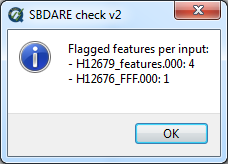
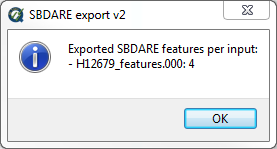
update qc tools after sbdare export

diff --git a/hyo_qctools/latest/searchindex.js b/hyo_qctools/latest/searchindex.js
@@ -1,1 +1,1 @@
-Search.setIndex({envversion:49,filenames:["credits","developer_guide","developer_guide_how_to_build_docs","developer_guide_how_to_contribute","developer_guide_how_to_distribute","developer_guide_todolist","in_brief","index","license","user_manual","user_manual_chart","user_manual_chart_0_overview","user_manual_chart_1_data_inputs","user_manual_chart_2_bag_truncate","user_manual_supported_formats","user_manual_survey","user_manual_survey_0_overview","user_manual_survey_1_data_inputs","user_manual_survey_2_detect_fliers","user_manual_survey_3_scan_features","user_manual_survey_4_valsou_checks","user_manual_survey_5_sbdare_checks"],objects:{},objnames:{},objtypes:{},terms:{"4d0":8,"4d1":8,"break":3,"case":3,"class":8,"export":[16,21],"function":[8,12,17],"new":[4,8],"public":8,"while":6,abov:[3,4],absolut:3,accept:[8,12,17],access:[12,17],accessor:8,accompani:8,account:[16,20],accuraci:6,add:3,addit:[8,17,18],addition:8,address:8,adher:3,after:[13,18,19,20,21],aka:5,alert:6,algorithm:18,all:[6,12,17,20],allow:[4,8],alphabet:3,alreadi:8,also:[6,8,12,17],alwai:3,among:8,ani:[3,8,12,17],anomal:[16,18],anywai:3,anywher:[12,17],api:2,apidoc:2,appli:8,applic:8,applicat:8,archiv:[16,21],aren:3,argument:8,assist:6,associat:8,attent:6,attribut:[5,11,14,16,19],author:8,authors:3,autobuild:2,automat:[12,13,17,18,19,20,21],avail:[12,14,17],backward:3,bag:[9,10,11,12],base:[0,8],bathymetr:[6,11,12,14,16,17],bathymetri:[16,20],been:18,below:8,best:3,between:[0,20],blooper:3,both:8,bottom:[12,13,16,17,18,19,20,21],bound:8,brian:0,brows:[12,17],bug:0,build:1,built:2,bump:4,bumpvers:4,button:[12,17],calder:0,call:8,can:[2,3,4,8],candid:5,cari:14,ccom:0,center:[0,8],certain:8,chang:[3,8],changelog:3,check:[9,15,16,17],choic:8,choos:8,clear:[12,17],click:[12,13,17,19,20,21],close:3,coastal:[0,8],code:[3,8],collaps:3,combin:[8,20],come:11,comment:0,commit:3,commun:8,compat:[3,8],compil:13,comput:[8,13,18,19,20,21],concern:[3,8],condit:8,conduct:3,conf:4,consid:[3,8,20],contact:0,contain:8,contribut:1,contributor:3,convei:8,copi:8,copyright:8,correspond:8,cover:8,creat:2,csar:14,current:14,data:[6,9,10,11],debug:8,decid:8,decimetr:[11,13],deem:8,defin:8,definit:8,deprec:18,detail:8,detect:[9,15,16,17],dev0:4,develop:0,differ:[3,8],direct:8,directori:[12,17],dirti:4,displai:8,distinguish:8,distribut:1,doc:[2,3,4],document:1,doe:[3,8],don:3,drag:[12,17,18,19,20],drop:[12,17,18,19,20],dual:8,dure:8,each:[2,8],edu:0,effect:8,effort:8,either:[8,19],elev:[11,13],engin:8,ensu:[12,17],ensur:[5,8,11,16,19],ensure:[16,20],enter:18,entri:3,evaluat:[5,11],even:3,event:8,ever:[3,8],everi:3,everyon:8,exception:8,exclud:8,execut:[8,12,17,18],exist:3,expect:18,explain:8,extent:8,facil:8,faith:8,fashion:3,faster:18,fear:3,featur:[0,3,5,6,9,11,15,16,17],feel:[0,3],few:3,fewer:8,field:19,file:[3,6,8,16,17,20,21],filenam:[12,17],find:[5,8,18],fix:3,flier:[5,9,15,16,17],folder:[4,12,17],follow:[2,8],form:8,format:9,found:20,foundat:[3,8],free:[0,3,8],from:[3,8,18,19,20],fsf:8,futur:8,general:8,get:3,gis:6,giusepp:0,give:8,given:8,gnu:8,good:[3,8],govern:8,gpl:8,grammar:3,great:3,grid:[6,11,12,13,14,16,17,18,20],hampshir:8,hard:3,have:[2,3,8],hcell:[5,11],header:8,height:18,help:3,here:3,herein:8,hint:3,how:1,howev:[12,17],html:2,http:8,hydroffic:[0,2,8],idealli:3,improv:6,improve:5,inc:8,includ:8,incorpor:8,index:7,industrial:8,info:8,inform:[8,17],informat:8,ingest:[11,12,16,17],inlin:8,input:[6,9,10,11],instal:[2,4,8],installat:8,interfac:[8,12,13,17,18,19,20,21],invok:8,isol:8,joint:0,june:8,just:[2,3],knob:19,later:8,layer:6,layout:8,length:8,lesser:8,lgpl:8,librari:8,licens:[],license:8,like:4,limit:8,line:8,link:8,list:8,live:3,load:[12,20],locat:17,macro:8,made:8,mai:[8,12,17,18],make:[2,3,8],mani:3,manner:8,manual:[],map:[0,8],masetti:0,match:4,materi:8,matthew:0,mean:8,meaning:8,mechan:8,merg:3,messag:[3,17],meter:18,might:6,minim:8,miss:3,mkdir:2,mode:8,modif:8,modifi:8,mold:3,more:[6,8],must:8,necessari:8,need:[4,8,12,17],neeed:2,noaa:[0,14],none:8,note:[17,18,20],noteworthi:3,noth:3,notic:8,now:[12,17],number:[8,12,17],numer:8,obei:3,object:[6,8],occur:6,ocean:[0,8],office:19,onc:2,once:4,ongo:0,onli:[8,12,14,18],onto:[12,17],open:[3,12,13,17,18,19,20,21],oper:[8,18],optim:18,option:8,org:8,other:8,otherwis:8,out:3,output:[6,12,13,17,18,19,20,21],overal:6,overlap:20,overview:[9,10],packag:8,page:7,paramet:[8,18,19],part:[6,8],particip:3,particular:8,pass:8,patch:[3,4],pep:3,perform:8,perman:8,permiss:8,permit:8,ping:6,pip:[2,4],place:8,pleas:3,pleasant:3,polit:3,popul:[12,17],portion:8,possibl:3,precis:[11,13],present:[4,8],problem:8,process:[6,18,19,20],produc:8,profil:19,program:8,project:[2,3],promin:8,proper:[5,11,16,19,21],properli:[8,16,20],provid:8,proxi:8,publish:8,pull:3,purpos:8,python:3,qctool:[0,2,8],question:3,quickstart:2,reach:3,read:14,readi:13,receiv:8,recombin:8,reduc:6,refer:8,reject:17,releas:[4,8],relink:8,remain:8,remov:[12,17],report:20,reproduc:8,request:[0,3],respect:17,restrict:[8,14],result:[18,19,20,21],revers:8,revis:8,robust:5,rule:[3,5,11],run:[4,8],sacrific:3,same:[8,18],sampl:[16,21],sbdare:[9,15,16,17],scale:[5,11],scan:[5,9,11,15,16,17,18],script:2,search:7,section:8,see:[3,11,16],select:[12,13,17,18,19,20,21],shall:[3,8],share:8,should:4,shown:[18,19,20,21],side:8,similar:8,singl:8,small:[3,8],softwar:[3,8,18,19,20],someth:[3,4],soon:11,sound:[5,11],sourc:[3,8],specifi:8,sphinx:2,spirit:8,start:3,statement:8,still:8,structur:8,subclass:8,submit:3,suggest:0,suitabl:8,summari:20,supplement:8,suppli:8,support:9,sure:3,survei:0,system:8,tab:[11,12,13,16,17,18,19,20,21],taken:8,ten:8,term:8,test:[3,18],text:[16,21],than:8,thank:3,thi:[3,8,12,17],throughout:6,todolist:1,togeth:8,too:3,tool:[0,6],top:12,triangl:[5,11],truncat:[9,10,11,12],turn:19,txt:3,type:[6,17],typo:3,unaccept:17,uncombin:8,under:[4,8],unh:0,univers:8,updat:2,upon:[12,17],use:8,user:6,util:8,valsou:[9,15,16,17],valu:4,valuabl:3,variabl:4,variou:6,verbatim:8,versu:[5,11],via:[5,11],visit:8,well:8,whatev:8,when:8,where:8,whether:[3,8],which:8,wilson:0,window:[13,18,19,20,21],without:8,won:3,work:8,worst:3,would:8,write:[3,14],www:8,you:[2,3,4,8],your:[3,8],yourself:3},titles:["Credits","Developer&#8217;s guide","How to build the documentation","How to contribute","How to distribute","Todolist","In brief","QC Tools&#8217;s documentation","License","User manual","Chart Review","Overview","Data inputs","BAG truncate","Supported Formats","Survey Review","Overview","Data inputs","Detect fliers","Scan features","VALSOU checks","SBDARE checks"],titleterms:{bag:13,brief:6,build:2,chart:[5,10],check:[20,21],content:[1,7,9],contribut:3,creation:2,credit:0,data:[12,17],detect:18,develop:1,distribut:4,document:[2,7],featur:19,first:2,flier:18,format:14,gener:2,guid:1,how:[2,3,4],indice:7,input:[12,17],licens:8,manual:9,overview:[11,16],requir:[2,4],review:[5,10,15],sbdare:21,scan:19,support:14,survei:[5,15],tabl:7,templat:2,time:2,todolist:5,tool:7,truncat:13,update:4,user:9,valsou:20,version:4}})
+Search.setIndex({envversion:49,filenames:["credits","developer_guide","developer_guide_how_to_build_docs","developer_guide_how_to_contribute","developer_guide_how_to_distribute","developer_guide_todolist","in_brief","index","license","user_manual","user_manual_chart","user_manual_chart_0_overview","user_manual_chart_1_data_inputs","user_manual_chart_2_bag_truncate","user_manual_supported_formats","user_manual_survey","user_manual_survey_0_overview","user_manual_survey_1_data_inputs","user_manual_survey_2_detect_fliers","user_manual_survey_3_scan_features","user_manual_survey_4_valsou_checks","user_manual_survey_5_sbdare_export"],objects:{},objnames:{},objtypes:{},terms:{"4d0":8,"4d1":8,"break":3,"case":3,"class":8,"export":[9,16],"function":[8,12,17],"new":[4,8],"public":8,"while":6,abov:[3,4],absolut:3,accept:[8,12,17],access:[12,17],accessor:8,accompani:8,account:[16,20],accuraci:6,add:3,addit:[8,17,18],addition:8,address:8,adher:3,after:[13,18,19,20,21],aka:5,alert:6,algorithm:18,all:[6,12,17,20],allow:[4,8],alphabet:3,alreadi:8,also:[6,8,12,17],alwai:3,among:8,ani:[3,8,12,17],anomal:[16,18],anywai:3,anywher:[12,17],api:2,apidoc:2,appli:8,applic:8,applicat:8,archiv:[16,21],aren:3,argument:8,assist:6,associat:8,attent:6,attribut:[5,11,14,16,19],author:8,authors:3,autobuild:2,automat:[12,13,17,18,19,20,21],avail:[12,14,17],backward:3,bag:[10,11,12],base:[0,8],bathymetr:[6,11,12,14,16,17],bathymetri:[16,20],been:18,below:8,best:3,between:[0,20],blooper:3,both:8,bottom:[12,13,16,17,18,19,20,21],bound:8,brian:0,brows:[12,17],bug:0,build:1,built:2,bump:4,bumpvers:4,button:[12,17],calder:0,call:8,can:[2,3,4,8],candid:5,cari:14,ccom:0,center:[0,8],certain:8,chang:[3,8],changelog:3,check:[],choic:8,choos:8,clear:[12,17],click:[12,13,17,19,20,21],close:3,coastal:[0,8],code:[3,8],collaps:3,combin:[8,20],come:11,comment:0,commit:3,commun:8,compat:[3,8],compil:13,comput:[8,13,18,19,20,21],concern:[3,8],condit:8,conduct:3,conf:4,consid:[3,8,20],contact:0,contain:8,contribut:1,contributor:3,convei:8,copi:8,copyright:8,correspond:8,cover:8,creat:2,csar:14,current:14,data:[6,10,11],debug:8,decid:8,decimetr:[11,13],deem:8,defin:8,definit:8,deprec:18,detail:8,detect:[],dev0:4,develop:0,differ:[3,8],direct:8,directori:[12,17],dirti:4,displai:8,distinguish:8,distribut:1,doc:[2,3,4],document:1,doe:[3,8],don:3,drag:[12,17,18,19,20],drop:[12,17,18,19,20],dual:8,dure:8,each:[2,8],edu:0,effect:8,effort:8,either:[8,19],elev:[11,13],engin:8,ensu:[12,17],ensur:[5,8,11,16,19],ensure:[16,20],enter:18,entri:3,evaluat:[5,11],even:3,event:8,ever:[3,8],everi:3,everyon:8,exception:8,exclud:8,execut:[8,12,17,18],exist:3,expect:18,explain:8,extent:8,facil:8,faith:8,fashion:3,faster:18,fear:3,featur:[0,3,5,6,11],feel:[0,3],few:3,fewer:8,field:19,file:[3,6,8,16,17,20,21],filenam:[12,17],find:[5,8,18],fix:3,flier:5,folder:[4,12,17],follow:[2,8],form:8,format:[],found:20,foundat:[3,8],free:[0,3,8],from:[3,8,18,19,20],fsf:8,futur:8,general:8,get:3,gis:6,giusepp:0,give:8,given:8,gnu:8,good:[3,8],govern:8,gpl:8,grammar:3,great:3,grid:[6,11,12,13,14,16,17,18,20],hampshir:8,hard:3,have:[2,3,8],hcell:[5,11],header:8,height:18,help:3,here:3,herein:8,hint:3,how:1,howev:[12,17],html:2,http:8,hydroffic:[0,2,8],idealli:3,improv:6,improve:5,inc:8,includ:8,incorpor:8,index:7,industrial:8,info:8,inform:[8,17],informat:8,ingest:[11,12,16,17],inlin:8,input:[6,10,11],instal:[2,4,8],installat:8,interfac:[8,12,13,17,18,19,20,21],invok:8,isol:8,joint:0,june:8,just:[2,3],knob:19,later:8,layer:6,layout:8,length:8,lesser:8,lgpl:8,librari:8,licens:[],license:8,like:4,limit:8,line:8,link:8,list:8,live:3,load:[12,20],locat:17,macro:8,made:8,mai:[8,12,17,18],make:[2,3,8],mani:3,manner:8,manual:[],map:[0,8],masetti:0,match:4,materi:8,matthew:0,mean:8,meaning:8,mechan:8,merg:3,messag:[3,17],meter:18,might:6,minim:8,miss:3,mkdir:2,mode:8,modif:8,modifi:8,mold:3,more:[6,8],must:8,necessari:8,need:[4,8,12,17],neeed:2,noaa:[0,14],none:8,note:[17,18,20],noteworthi:3,noth:3,notic:8,now:[12,17],number:[8,12,17],numer:8,obei:3,object:[6,8],occur:6,ocean:[0,8],office:19,onc:2,once:4,ongo:0,onli:[8,12,14,18],onto:[12,17],open:[3,12,13,17,18,19,20,21],oper:[8,18],optim:18,option:8,org:8,other:8,otherwis:8,out:3,output:[6,12,13,17,18,19,20,21],overal:6,overlap:20,overview:10,packag:8,page:7,paramet:[8,18,19],part:[6,8],particip:3,particular:8,pass:8,patch:[3,4],pep:3,perform:8,perman:8,permiss:8,permit:8,ping:6,pip:[2,4],place:8,pleas:3,pleasant:3,polit:3,popul:[12,17],portion:8,possibl:3,precis:[11,13],present:[4,8],problem:8,process:[6,18,19,20],produc:8,profil:19,program:8,project:[2,3],promin:8,proper:[5,11,16,19,21],properli:[8,16,20],provid:8,proxi:8,publish:8,pull:3,purpos:8,python:3,qctool:[0,2,8],question:3,quickstart:2,reach:3,read:14,readi:13,receiv:8,recombin:8,reduc:6,refer:8,reject:17,releas:[4,8],relink:8,remain:8,remov:[12,17],report:20,reproduc:8,request:[0,3],respect:17,restrict:[8,14],result:[18,19,20,21],revers:8,revis:8,robust:5,rule:[3,5,11],run:[4,8],sacrific:3,same:[8,18],sampl:[16,21],sbdare:[],scale:[5,11],scan:[5,11,18],script:2,search:7,section:8,see:[3,11,16],select:[12,13,17,18,19,20,21],shall:[3,8],share:8,should:4,shown:[18,19,20,21],side:8,similar:8,singl:8,small:[3,8],softwar:[3,8,18,19,20],someth:[3,4],soon:11,sound:[5,11],sourc:[3,8],specifi:8,sphinx:2,spirit:8,start:3,statement:8,still:8,structur:8,subclass:8,submit:3,suggest:0,suitabl:8,summari:20,supplement:8,suppli:8,support:[],sure:3,survei:0,system:8,tab:[11,12,13,16,17,18,19,20,21],taken:8,ten:8,term:8,test:[3,18],text:[16,21],than:8,thank:3,thi:[3,8,12,17],throughout:6,todolist:1,togeth:8,too:3,tool:[0,6],top:12,triangl:[5,11],truncat:[10,11,12],turn:19,txt:3,type:[6,17],typo:3,unaccept:17,uncombin:8,under:[4,8],unh:0,univers:8,updat:2,upon:[12,17],use:8,user:6,util:8,valsou:[],valu:4,valuabl:3,variabl:4,variou:6,verbatim:8,versu:[5,11],via:[5,11],visit:8,well:8,whatev:8,when:8,where:8,whether:[3,8],which:8,wilson:0,window:[13,18,19,20,21],without:8,won:3,work:8,worst:3,would:8,write:[3,14],www:8,you:[2,3,4,8],your:[3,8],yourself:3},titles:["Credits","Developer&#8217;s guide","How to build the documentation","How to contribute","How to distribute","Todolist","In brief","QC Tools&#8217;s documentation","License","User manual","Chart Review","Overview","Data inputs","BAG truncate","Supported Formats","Survey Review","Overview","Data inputs","Detect fliers","Scan features","VALSOU checks","SBDARE export"],titleterms:{"export":21,bag:13,brief:6,build:2,chart:[5,10],check:20,content:[1,7,9],contribut:3,creation:2,credit:0,data:[12,17],detect:18,develop:1,distribut:4,document:[2,7],featur:19,first:2,flier:18,format:14,gener:2,guid:1,how:[2,3,4],indice:7,input:[12,17],licens:8,manual:9,overview:[11,16],requir:[2,4],review:[5,10,15],sbdare:21,scan:19,support:14,survei:[5,15],tabl:7,templat:2,time:2,todolist:5,tool:7,truncat:13,update:4,user:9,valsou:20,version:4}})

diff --git a/hyo_qctools/latest/user_manual_survey_5_sbdare_export.html b/hyo_qctools/latest/user_manual_survey_5_sbdare_export.html
@@ -6,7 +6,7 @@
   <head>
     <meta http-equiv="Content-Type" content="text/html; charset=utf-8" />
     
-    <title>Data inputs &mdash; HydrOffice QC Tools 1.0.0 documentation</title>
+    <title>SBDARE export &mdash; HydrOffice QC Tools 1.0.0 documentation</title>
     
     <link rel="stylesheet" href="_static/hyo.css" type="text/css" />
     <link rel="stylesheet" href="_static/pygments.css" type="text/css" />
@@ -25,8 +25,8 @@
     <script type="text/javascript" src="_static/doctools.js"></script>
     <link rel="top" title="HydrOffice QC Tools 1.0.0 documentation" href="index.html" />
     <link rel="up" title="Survey Review" href="user_manual_survey.html" />
-    <link rel="next" title="Detect fliers" href="user_manual_survey_2_detect_fliers.html" />
-    <link rel="prev" title="Overview" href="user_manual_survey_0_overview.html" /> 
+    <link rel="next" title="Chart Review" href="user_manual_chart.html" />
+    <link rel="prev" title="VALSOU checks" href="user_manual_survey_4_valsou_checks.html" /> 
   </head>
   <body role="document">
     <div class="related" role="navigation" aria-label="related navigation">
@@ -36,10 +36,10 @@
           <a href="genindex.html" title="General Index"
              accesskey="I">index</a></li>
         <li class="right" >
-          <a href="user_manual_survey_2_detect_fliers.html" title="Detect fliers"
+          <a href="user_manual_chart.html" title="Chart Review"
              accesskey="N">next</a> |</li>
         <li class="right" >
-          <a href="user_manual_survey_0_overview.html" title="Overview"
+          <a href="user_manual_survey_4_valsou_checks.html" title="VALSOU checks"
              accesskey="P">previous</a> |</li>
         <li class="nav-item nav-item-0"><a href="index.html">HydrOffice QC Tools 1.0.0 documentation</a> &raquo;</li>
           <li class="nav-item nav-item-1"><a href="user_manual.html" >User manual</a> &raquo;</li>
@@ -60,31 +60,19 @@
     </p>
 
 </div>
-    <div class="section" id="data-inputs">
-<span id="data-inputs-label"></span><h1>Data inputs<a class="headerlink" href="#data-inputs" title="Permalink to this headline">¶</a></h1>
-<p>Ingest bathymetric grids and feature files.</p>
-<ul class="simple" id="index-0">
-<li>Select the <strong>Survey Review</strong> tab on the QC Tools interface.</li>
-</ul>
-<ul class="simple" id="index-1">
-<li>Drag-and-drop any number of grids and/or features files, anywhere onto the interface. The <strong>&#8220;+&#8221;</strong> browse button may also be used.</li>
-<li>The directory and filename of accepted grid and feature files will populate in the respective locations of Data inputs.</li>
-</ul>
-<ul class="simple" id="index-2">
-<li>With the addition of a grid and features, the <strong>Detect fliers</strong>, <strong>Scan features</strong>,
-<strong>VALSOU checks</strong>, and <strong>SBDARE export</strong> tabs on the bottom of the interface are now available:</li>
-</ul>
-<img alt="input tab" class="align-center" src="_images/survey.png" />
+    <div class="section" id="sbdare-export">
+<span id="sbdare-export-label"></span><h1>SBDARE export<a class="headerlink" href="#sbdare-export" title="Permalink to this headline">¶</a></h1>
+<p>Export bottom samples to a text file for archival.</p>
 <ul class="simple">
-<li>Note that any unaccepted file types will be rejected with a message to inform the user:</li>
+<li>Select the <strong>SBDARE export</strong> tab on the bottom of the QC Tools interface.</li>
 </ul>
-<img alt="error image" class="align-center" src="_images/error.png" />
-<ul class="simple" id="index-3">
-<li>The <strong>Clear data</strong> button may be used to remove all data inputs.</li>
+<ul class="simple" id="index-0">
+<li>Click <strong>SBDARE export v2</strong>.</li>
+<li>After computing, the output window opens automatically, and the results are shown:</li>
 </ul>
-<ul class="simple" id="index-4">
-<li>The ensuing functions will open the output folder automatically upon execution;  however,
-if needed, this folder may be accessed by clicking the <strong>Output folder</strong> button in <strong>Data outputs</strong>.</li>
+<img alt="logo" class="align-center" src="_images/sbdare_results.png" />
+<ul class="simple">
+<li>The output is in the proper format for archival.</li>
 </ul>
 </div>
 
@@ -97,15 +85,15 @@ if needed, this folder may be accessed by clicking the <strong>Output folder</st
   <img class="logo" src="_static/favicon.png" alt="Logo"/>
 </a></p>
   <h4>Previous topic</h4>
-  <p class="topless"><a href="user_manual_survey_0_overview.html"
-                        title="previous chapter">Overview</a></p>
+  <p class="topless"><a href="user_manual_survey_4_valsou_checks.html"
+                        title="previous chapter">VALSOU checks</a></p>
   <h4>Next topic</h4>
-  <p class="topless"><a href="user_manual_survey_2_detect_fliers.html"
-                        title="next chapter">Detect fliers</a></p>
+  <p class="topless"><a href="user_manual_chart.html"
+                        title="next chapter">Chart Review</a></p>
   <div role="note" aria-label="source link">
     <h3>This Page</h3>
     <ul class="this-page-menu">
-      <li><a href="_sources/user_manual_survey_1_data_inputs.txt"
+      <li><a href="_sources/user_manual_survey_5_sbdare_export.txt"
             rel="nofollow">Show Source</a></li>
     </ul>
    </div>
@@ -130,10 +118,10 @@ if needed, this folder may be accessed by clicking the <strong>Output folder</st
           <a href="genindex.html" title="General Index"
              >index</a></li>
         <li class="right" >
-          <a href="user_manual_survey_2_detect_fliers.html" title="Detect fliers"
+          <a href="user_manual_chart.html" title="Chart Review"
              >next</a> |</li>
         <li class="right" >
-          <a href="user_manual_survey_0_overview.html" title="Overview"
+          <a href="user_manual_survey_4_valsou_checks.html" title="VALSOU checks"
              >previous</a> |</li>
         <li class="nav-item nav-item-0"><a href="index.html">HydrOffice QC Tools 1.0.0 documentation</a> &raquo;</li>
           <li class="nav-item nav-item-1"><a href="user_manual.html" >User manual</a> &raquo;</li>

diff --git a/hyo_qctools/latest/user_manual_survey_0_overview.html b/hyo_qctools/latest/user_manual_survey_0_overview.html
@@ -68,7 +68,7 @@
 <li>Scan grids for anomalous grid data &#8220;<span class="target" id="index-1"></span>fliers&#8221; (see <a class="reference internal" href="user_manual_survey_2_detect_fliers.html#detect-fliers-label"><span class="std std-ref">Detect fliers</span></a>).</li>
 <li>Scan features to ensure proper attribution (see <a class="reference internal" href="user_manual_survey_3_scan_features.html#scan-features-label"><span class="std std-ref">Scan features</span></a>).</li>
 <li>Ensure surveyed features are properly accounted for in the <span class="target" id="index-2"></span>gridded bathymetry (see <a class="reference internal" href="user_manual_survey_4_valsou_checks.html#valsou-checks-label"><span class="std std-ref">VALSOU checks</span></a>).</li>
-<li>Export <span class="target" id="index-3"></span>bottom samples to a text file for archival (see <a class="reference internal" href="user_manual_survey_5_sbdare_checks.html#sbdare-checks-label"><span class="std std-ref">SBDARE checks</span></a>).</li>
+<li>Export <span class="target" id="index-3"></span>bottom samples to a text file for archival (see <a class="reference internal" href="user_manual_survey_5_sbdare_export.html#sbdare-export-label"><span class="std std-ref">SBDARE export</span></a>).</li>
 </ul>
 </div>
 

diff --git a/hyo_qctools/latest/user_manual.html b/hyo_qctools/latest/user_manual.html
@@ -69,7 +69,7 @@
 <li class="toctree-l2"><a class="reference internal" href="user_manual_survey_2_detect_fliers.html">Detect fliers</a></li>
 <li class="toctree-l2"><a class="reference internal" href="user_manual_survey_3_scan_features.html">Scan features</a></li>
 <li class="toctree-l2"><a class="reference internal" href="user_manual_survey_4_valsou_checks.html">VALSOU checks</a></li>
-<li class="toctree-l2"><a class="reference internal" href="user_manual_survey_5_sbdare_checks.html">SBDARE checks</a></li>
+<li class="toctree-l2"><a class="reference internal" href="user_manual_survey_5_sbdare_export.html">SBDARE export</a></li>
 </ul>
 </li>
 <li class="toctree-l1"><a class="reference internal" href="user_manual_chart.html">Chart Review</a><ul>

diff --git a/hyo_qctools/latest/user_manual_survey.html b/hyo_qctools/latest/user_manual_survey.html
@@ -68,7 +68,7 @@
 <li class="toctree-l1"><a class="reference internal" href="user_manual_survey_2_detect_fliers.html">Detect fliers</a></li>
 <li class="toctree-l1"><a class="reference internal" href="user_manual_survey_3_scan_features.html">Scan features</a></li>
 <li class="toctree-l1"><a class="reference internal" href="user_manual_survey_4_valsou_checks.html">VALSOU checks</a></li>
-<li class="toctree-l1"><a class="reference internal" href="user_manual_survey_5_sbdare_checks.html">SBDARE checks</a></li>
+<li class="toctree-l1"><a class="reference internal" href="user_manual_survey_5_sbdare_export.html">SBDARE export</a></li>
 </ul>
 </div>
 </div>

diff --git a/hyo_qctools/latest/genindex.html b/hyo_qctools/latest/genindex.html
@@ -248,7 +248,7 @@
   </dt>
 
       
-  <dt><a href="user_manual_survey_1_data_inputs.html#index-2">SBDARE checks</a>, <a href="user_manual_survey_5_sbdare_checks.html#index-0">[1]</a>
+  <dt><a href="user_manual_survey_1_data_inputs.html#index-2">SBDARE export</a>, <a href="user_manual_survey_5_sbdare_export.html#index-0">[1]</a>
   </dt>
 
   </dl></td>
